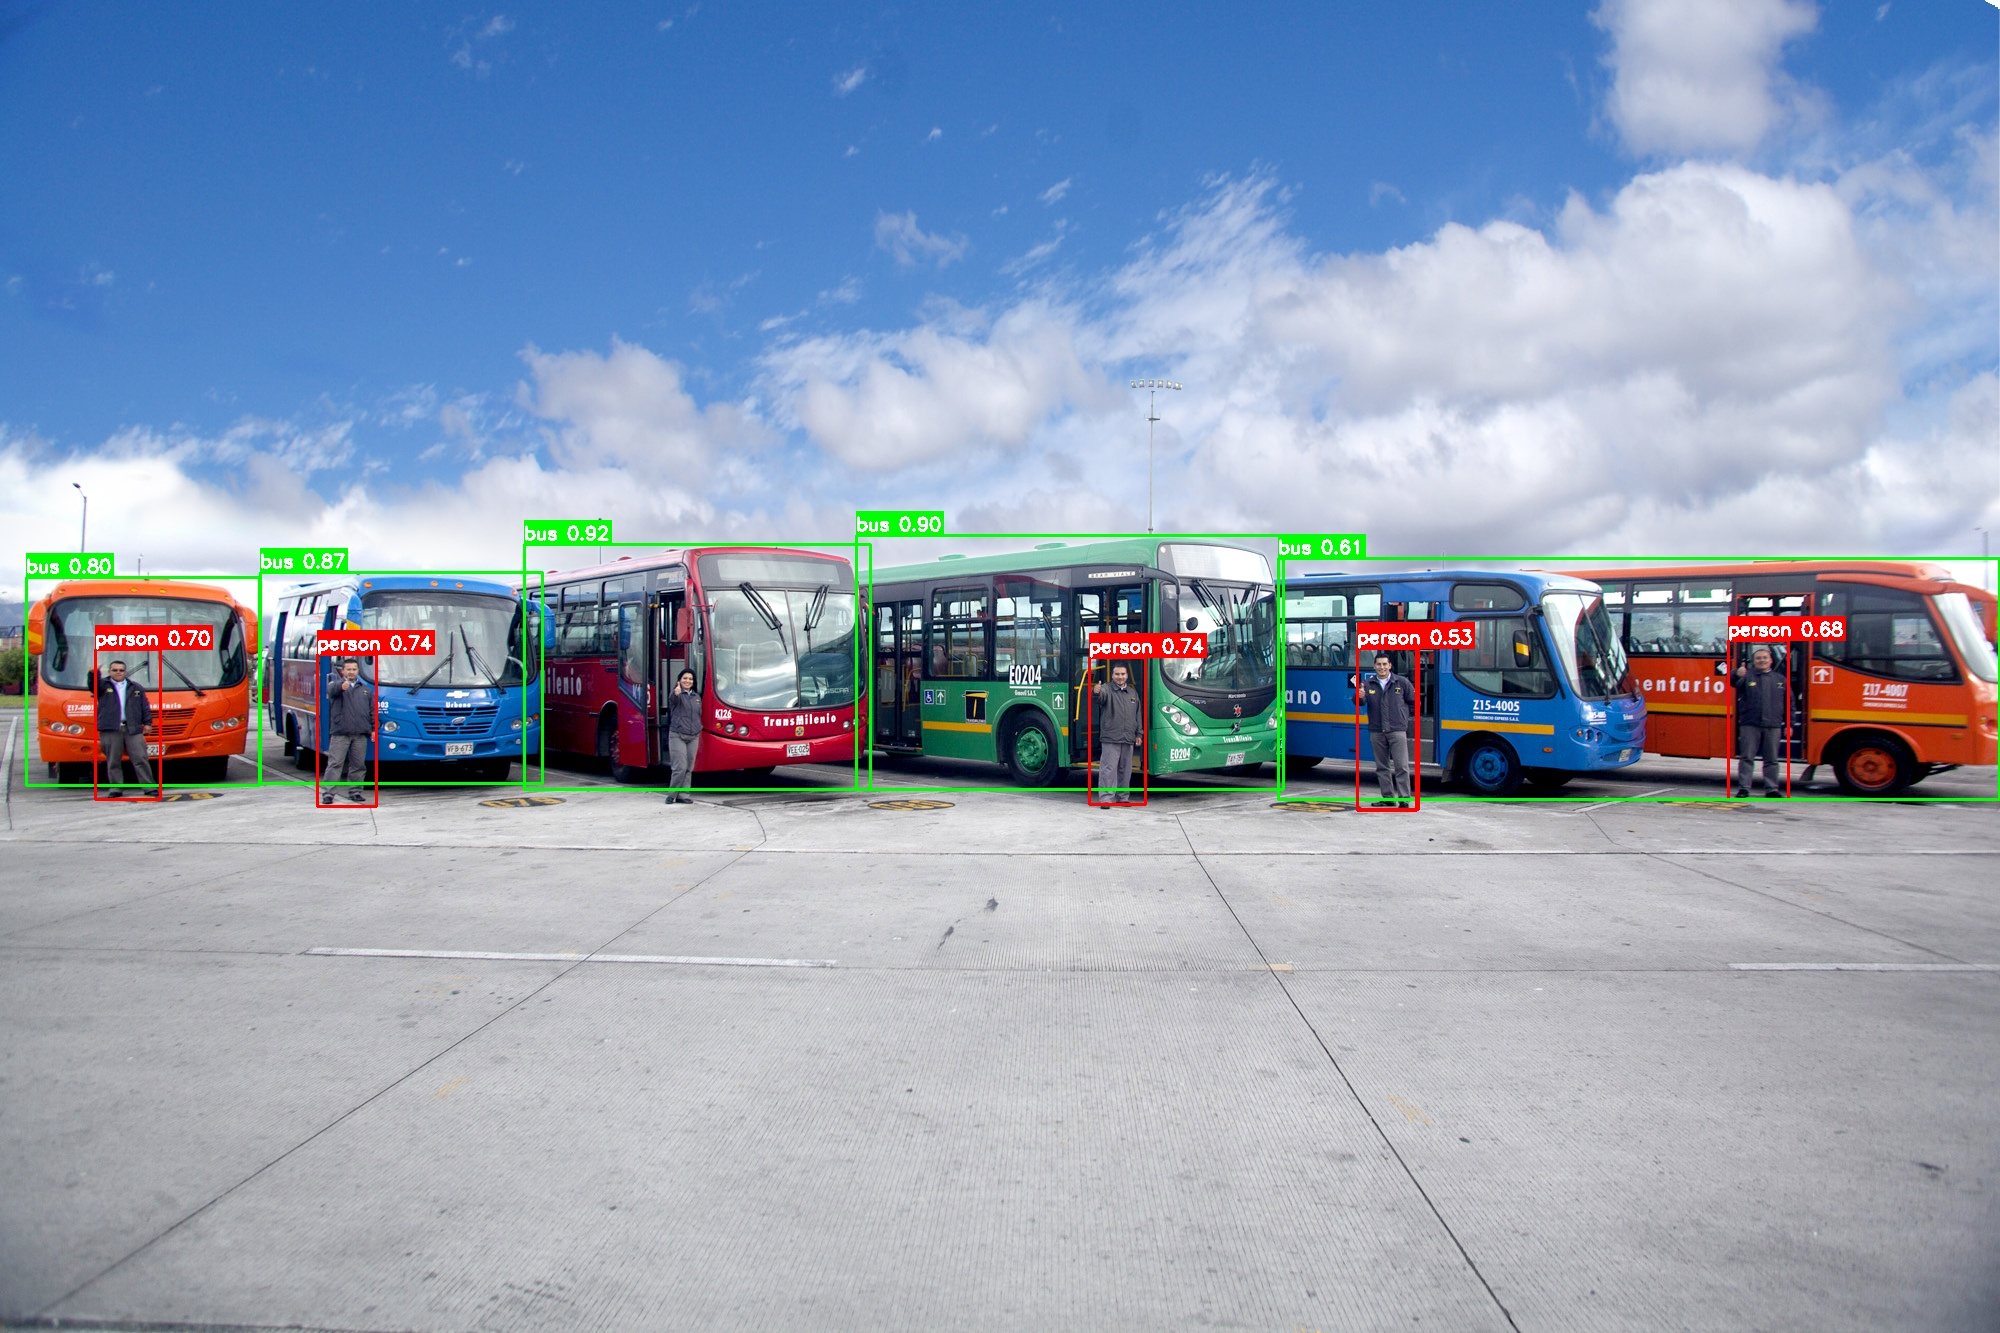
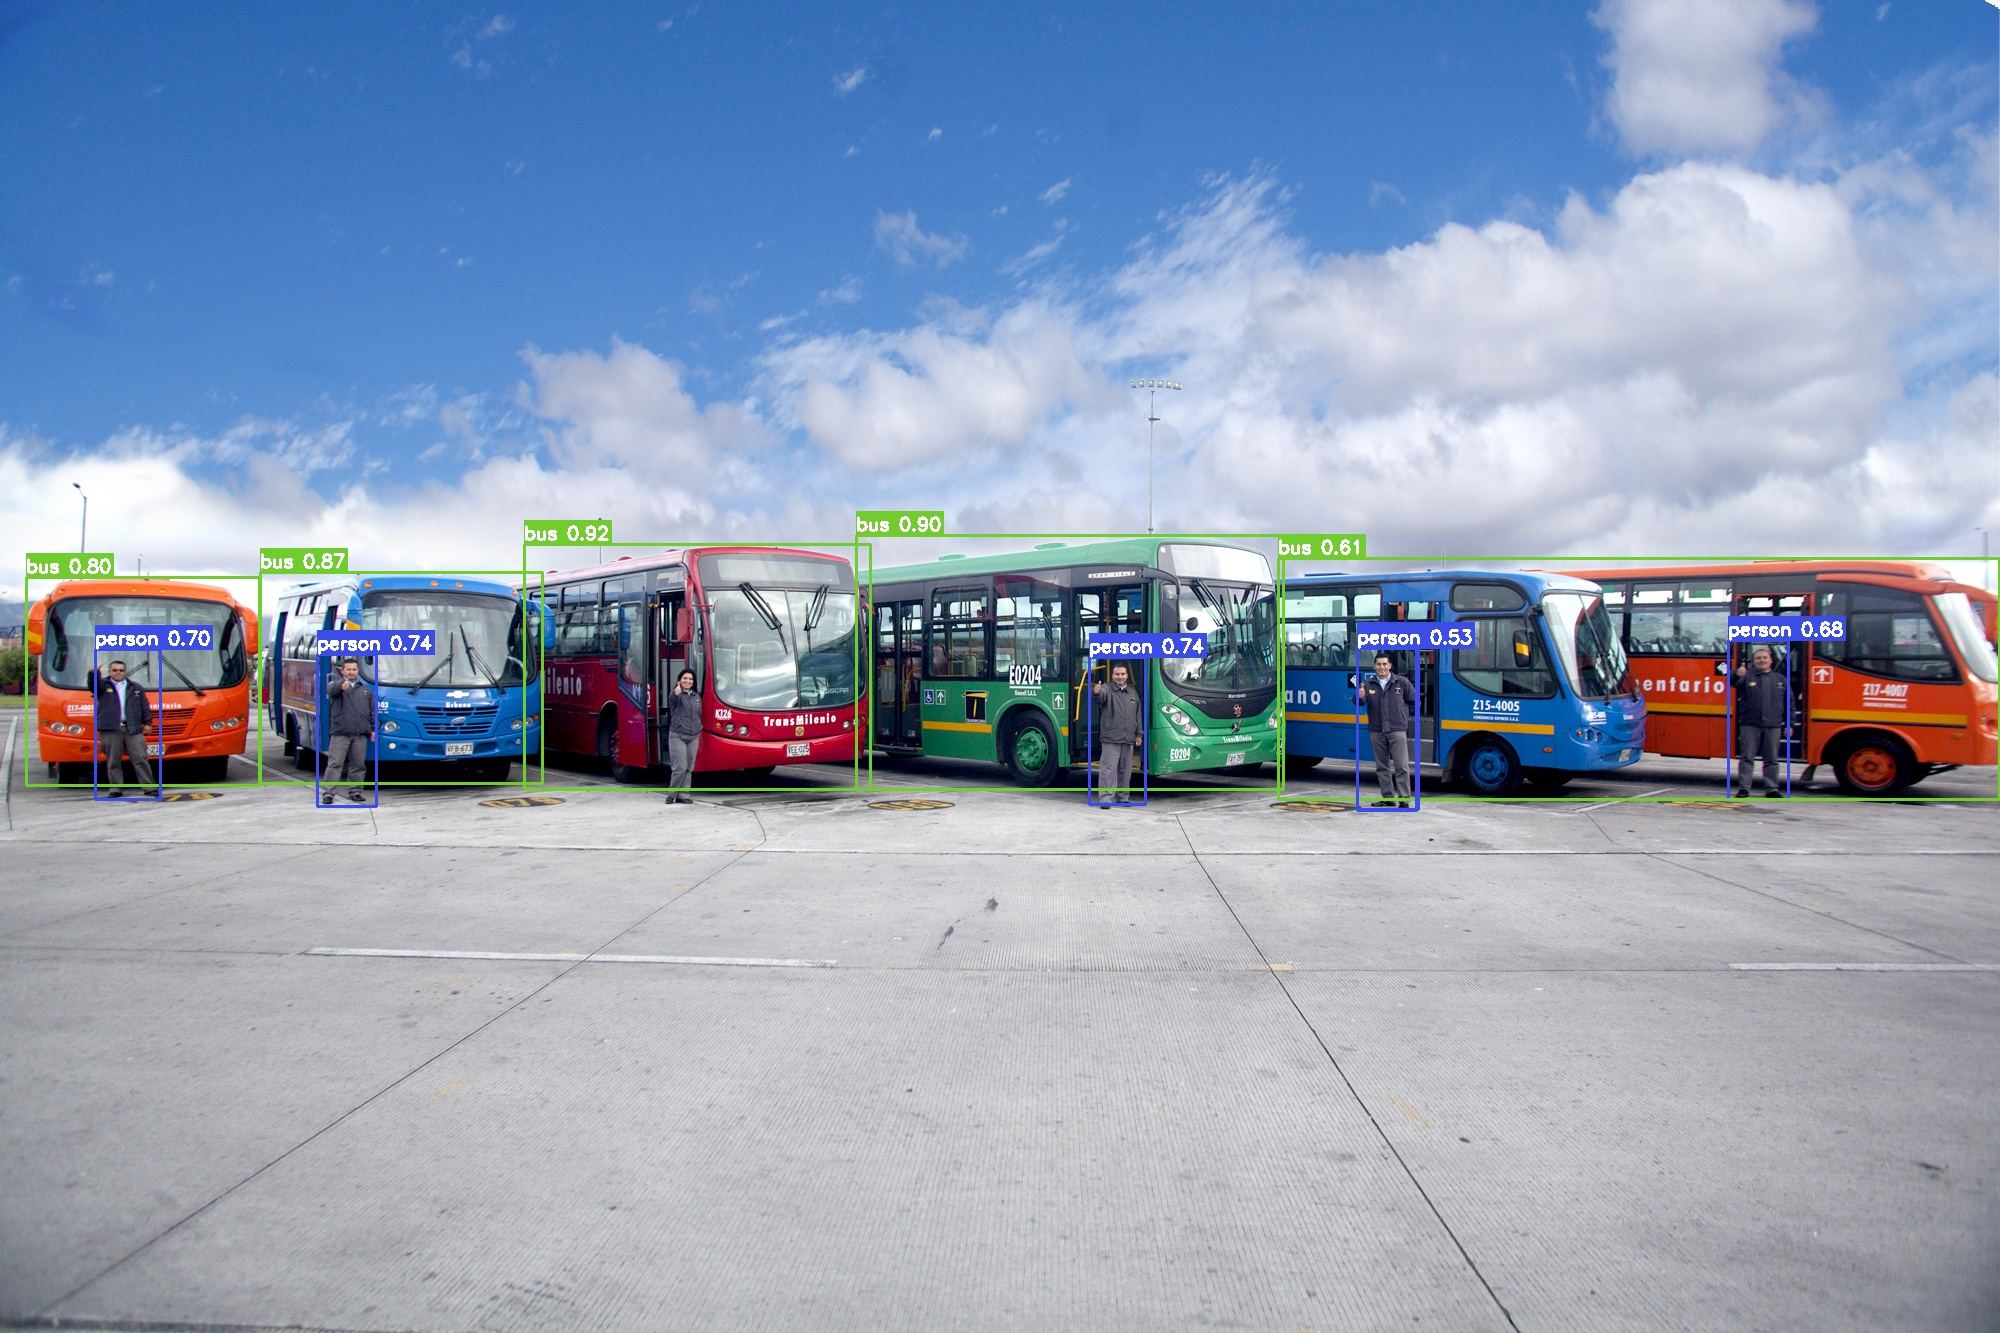
se hace ingerencia en las imagenes con yolo, hay que mirar la calidad, comparar con los de python porque parece que estan dando resultados distintos, hago el commit para guardar el progreso y tratar de que se pueda hacer inferencia en todo el area de la imagen ya que actualmente toca recortarlas

diff --git a/dummy-app/services/BusDetectionService.js b/dummy-app/services/BusDetectionService.js
@@ -10,12 +10,36 @@ class BusDetectionService {
     this.model = null;
     this.isModelLoaded = false;
     this.inputSize = 640; // Common YOLOv8 input
-    this.targetClasses = ['car', 'bus', 'truck'];
-    this.classIdByName = { car: 2, bus: 5, truck: 7 };
-    this.colors = { car: '#45B7D1', bus: '#2ecc71', truck: '#e67e22' };
-    this.scoreThreshold = 0.25;
-    this.iouThreshold = 0.45;
-    this.maxDetections = 20;
+    // COCO classes we will report
+    this.targetClasses = [
+      'person', 'bicycle', 'car', 'motorcycle', 'bus', 'truck',
+      'traffic light', 'stop sign'
+    ];
+    // COCO indices as used by YOLOv8
+    this.classIdByName = {
+      person: 0,
+      bicycle: 1,
+      car: 2,
+      motorcycle: 3,
+      bus: 5,
+      truck: 7,
+      'traffic light': 9,
+      'stop sign': 11,
+    };
+    this.colors = {
+      person: '#e74c3c',
+      bicycle: '#2980b9',
+      car: '#45B7D1',
+      motorcycle: '#8e44ad',
+      bus: '#2ecc71',
+      truck: '#e67e22',
+      'traffic light': '#f1c40f',
+      'stop sign': '#c0392b',
+    };
+    this.scoreThreshold = 0.6; // raise to reduce FP
+    this.iouThreshold = 0.50;  // stricter NMS
+    this.maxDetections = 10;   // limit number of boxes
+    this.minBoxNormArea = 0.01; // filter tiny boxes (normalized area)
   }
 
   async ensureBackendReady() {
@@ -146,10 +170,8 @@ class BusDetectionService {
         }
       }
       const combinedScore = bestScore * objectness;
-      if (
-        combinedScore >= this.scoreThreshold &&
-        (bestIdx === this.classIdByName.car || bestIdx === this.classIdByName.bus || bestIdx === this.classIdByName.truck)
-      ) {
+      const allowed = Object.values(this.classIdByName);
+      if (combinedScore >= this.scoreThreshold && allowed.includes(bestIdx)) {
         // Convert from center xywh to xyxy. If values appear in pixels, normalize by input size.
         let x1 = cx - w / 2;
         let y1 = cy - h / 2;
@@ -159,9 +181,13 @@ class BusDetectionService {
         if (pixelLike) {
           x1 /= this.inputSize; y1 /= this.inputSize; x2 /= this.inputSize; y2 /= this.inputSize;
         }
-        boxes.push([x1, y1, x2, y2]);
-        scores.push(combinedScore);
-        classes.push(bestIdx);
+        // filter very small boxes
+        const area = Math.max(0, x2 - x1) * Math.max(0, y2 - y1);
+        if (area >= this.minBoxNormArea) {
+          boxes.push([x1, y1, x2, y2]);
+          scores.push(combinedScore);
+          classes.push(bestIdx);
+        }
       }
     }
 
@@ -193,7 +219,7 @@ class BusDetectionService {
       const [x, y, w, h] = boxesTensor.arraySync()[idx];
       const score = scoresTensor.arraySync()[idx];
       const clsId = classes[idx];
-      const clsName = clsId === this.classIdByName.car ? 'car' : clsId === this.classIdByName.bus ? 'bus' : 'truck';
+      const clsName = Object.keys(this.classIdByName).find(k => this.classIdByName[k] === clsId) || 'object';
       // Convert back to normalized xywh
       const bboxNorm = {
         x: x / this.inputSize,

diff --git a/dummy-app/App.js b/dummy-app/App.js
@@ -273,7 +273,7 @@ export default function App() {
                     ]}
                   >
                     <Text style={[styles.detectionLabel, { color: detection.color || '#45B7D1' }]}>
-                      Carro {Math.round(detection.confidence * 100)}%
+                      {detection.class} {Math.round(detection.confidence * 100)}%
                     </Text>
                   </View>
                 ))}

diff --git a/detect_image.py b/detect_image.py
@@ -10,6 +10,11 @@ import sys
 import os
 from pathlib import Path
 
+ALLOWED_CLASSES = {
+    'person', 'bicycle', 'car', 'motorcycle', 'bus', 'truck',
+    'traffic light', 'stop sign'
+}
+
 def detect_image(image_path, model_path='yolov8n.pt', confidence=0.5):
     """
     Quick image detection with YOLO
@@ -43,6 +48,8 @@ def detect_image(image_path, model_path='yolov8n.pt', confidence=0.5):
                 conf = float(box.conf[0].cpu().numpy())
                 class_id = int(box.cls[0].cpu().numpy())
                 class_name = model.names[class_id]
+                if class_name not in ALLOWED_CLASSES:
+                    continue
                 
                 # Store detection
                 detections.append({
@@ -51,13 +58,18 @@ def detect_image(image_path, model_path='yolov8n.pt', confidence=0.5):
                     'bbox': (x1, y1, x2, y2)
                 })
                 
-                # Choose color
-                if class_name in ['bus', 'car', 'truck']:
-                    color = (0, 255, 0)  # Green
-                elif class_name == 'person':
-                    color = (0, 0, 255)  # Red
-                else:
-                    color = (255, 0, 0)  # Blue
+                # Choose color (align roughly with app)
+                palette = {
+                    'person': (231, 76, 60),
+                    'bicycle': (41, 128, 185),
+                    'car': (69, 183, 209),
+                    'motorcycle': (142, 68, 173),
+                    'bus': (46, 204, 113),
+                    'truck': (230, 126, 34),
+                    'traffic light': (241, 196, 15),
+                    'stop sign': (192, 57, 43),
+                }
+                color = palette.get(class_name, (0, 255, 0))
                 
                 # Draw bounding box
                 cv2.rectangle(annotated_image, (x1, y1), (x2, y2), color, 2)
@@ -69,7 +81,7 @@ def detect_image(image_path, model_path='yolov8n.pt', confidence=0.5):
                 cv2.putText(annotated_image, label, (x1, y1-5), cv2.FONT_HERSHEY_SIMPLEX, 0.6, (255,255,255), 2)
     
     # Print results
-    print(f"✅ Found {len(detections)} objects:")
+    print(f"✅ Found {len(detections)} objects (filtered):")
     for i, det in enumerate(detections, 1):
         print(f"  {i}. {det['class']}: {det['confidence']:.3f}")
     
@@ -86,16 +98,31 @@ def detect_image(image_path, model_path='yolov8n.pt', confidence=0.5):
         cv2.waitKey(0)
         cv2.destroyAllWindows()
 
+def detect_folder(folder_path, model_path='yolov8n.pt', confidence=0.5):
+    folder = Path(folder_path)
+    images = list(folder.glob('*.jpg')) + list(folder.glob('*.jpeg')) + list(folder.glob('*.png'))
+    if not images:
+        print(f"❌ No images found in {folder}")
+        return
+    print(f"📁 Running detection on {len(images)} images in {folder}")
+    for img in images:
+        detect_image(str(img), model_path, confidence)
+
 if __name__ == "__main__":
     if len(sys.argv) < 2:
-        print("Usage: python detect_image.py <image_path> [model_path] [confidence]")
-        print("Example: python detect_image.py images/buses.jpeg")
-        print("Example: python detect_image.py images/buses.jpeg yolov8s.pt 0.7")
+        print("Usage:")
+        print("  python detect_image.py <image_path> [model_path] [confidence]")
+        print("  python detect_image.py --folder <folder_path> [model_path] [confidence]")
         sys.exit(1)
-    
-    image_path = sys.argv[1]
-    model_path = sys.argv[2] if len(sys.argv) > 2 else 'yolov8n.pt'
-    confidence = float(sys.argv[3]) if len(sys.argv) > 3 else 0.5
-    
-    detect_image(image_path, model_path, confidence)
+
+    if sys.argv[1] == '--folder':
+        folder_path = sys.argv[2]
+        model_path = sys.argv[3] if len(sys.argv) > 3 else 'yolov8n.pt'
+        confidence = float(sys.argv[4]) if len(sys.argv) > 4 else 0.5
+        detect_folder(folder_path, model_path, confidence)
+    else:
+        image_path = sys.argv[1]
+        model_path = sys.argv[2] if len(sys.argv) > 2 else 'yolov8n.pt'
+        confidence = float(sys.argv[3]) if len(sys.argv) > 3 else 0.5
+        detect_image(image_path, model_path, confidence)
 
